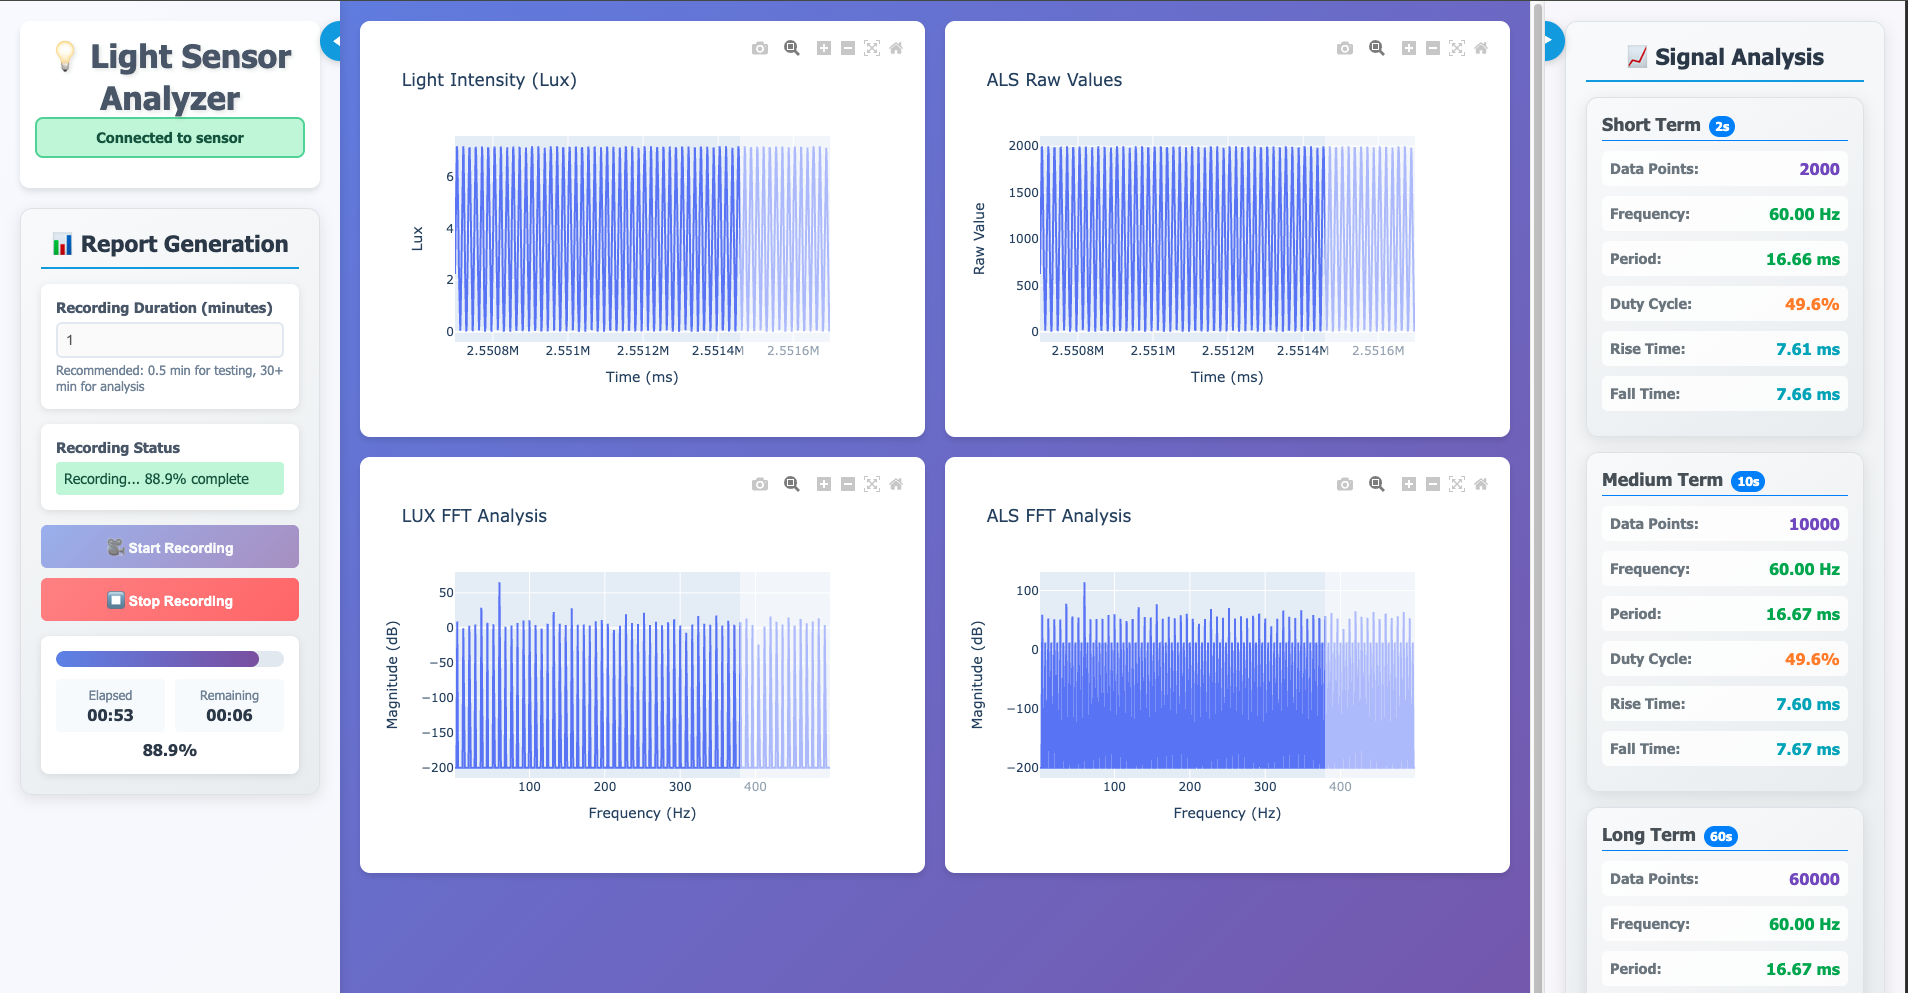
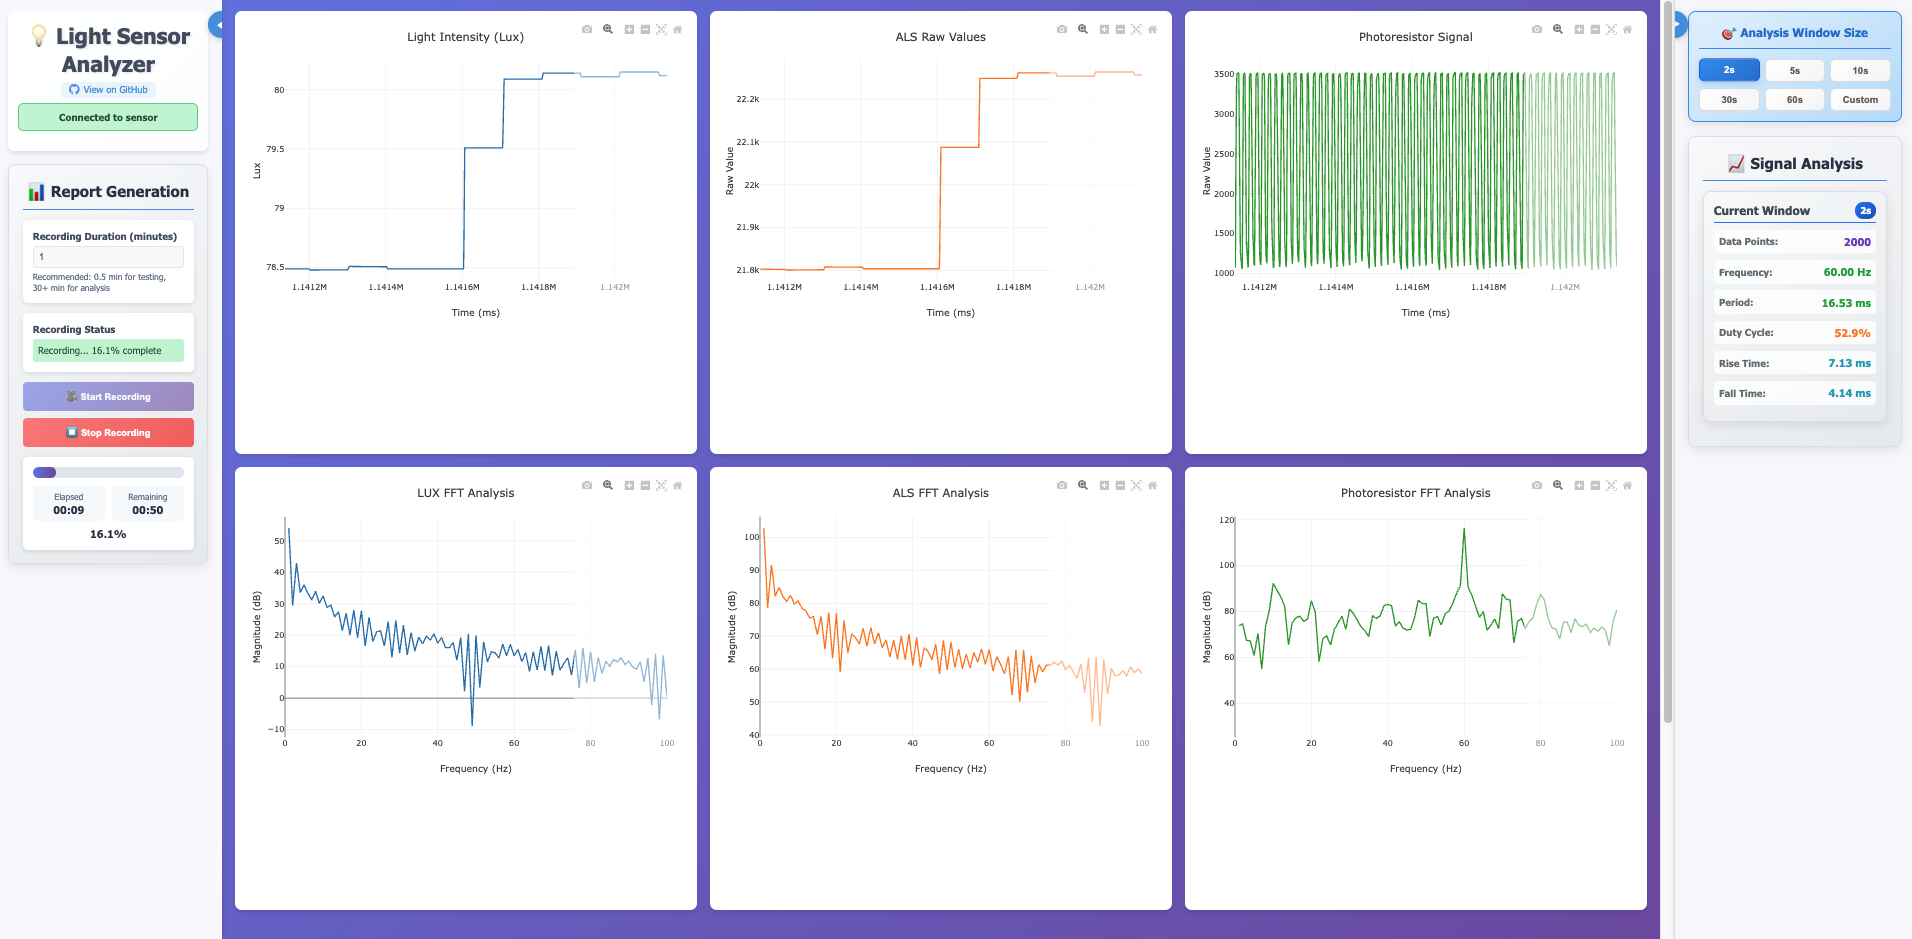
new UI image

diff --git a/README.md b/README.md
@@ -1,6 +1,6 @@
 # 💡 Light Sensor Analyzer
 
-A real-time light sensor analysis system that connects to Arduino-based VEML6030 sensors, providing live monitoring, signal analysis, and automated PDF report generation.
+A real-time light sensor analysis system that connects to Arduino-based sensor setup, providing live monitoring, signal analysis, and automated PDF report generation.
 
 ![Python](https://img.shields.io/badge/python-v3.8+-blue.svg)
 ![License](https://img.shields.io/badge/license-MIT-green.svg)
@@ -11,9 +11,10 @@ A real-time light sensor analysis system that connects to Arduino-based VEML6030
 
 ## ✨ Features
 
-- **Real-Time Monitoring**: Live LUX and ALS value visualization
-- **Signal Analysis**: FFT analysis, dominant frequency detection, duty cycle calculation
-- **Automated PDF Reports**: Professional reports with charts and statistical analysis
+- **Real-Time Monitoring**: Live LUX, ALS, and photoresistor value visualization
+- **Signal Analysis**: FFT analysis, dominant frequency detection, duty cycle calculation on photoresistor values
+- **Statistical Analysis**: Normalized histograms of rise/fall times, duty cycles, frequencies, and sensor values
+- **Automated PDF Reports**: Professional reports with charts, histograms, and statistical analysis
 - **Modern Web Interface**: Responsive design with real-time updates
 - **Multiple Time Windows**: Short-term (2s), medium-term (10s), and long-term (60s) analysis
 
@@ -22,17 +23,45 @@ A real-time light sensor analysis system that connects to Arduino-based VEML6030
 ### Arduino Setup
 - Arduino Uno/Nano or compatible
 - VEML6030 Ambient Light Sensor
+- Photoresistor (Light-Dependent Resistor)
+- 10kΩ resistor for photoresistor pull-down
 - USB cable for serial communication
 
-### VEML6030 Wiring
+### Sensor Wiring
+
+#### VEML6030 (Digital Light Sensor)
 ```
 Arduino    VEML6030
 ------     --------
 VCC   →    VDD (3.3V)
 GND   →    GND
-A4    →    SDA
-A5    →    SCL
+A4    →    SDA (I2C Data)
+A5    →    SCL (I2C Clock)
 ```
+
+#### Photoresistor (Analog Light Sensor)
+```
+Arduino    Photoresistor Circuit
+------     --------------------
+A0    →    Photoresistor + 10kΩ pull-down to GND
+5V    →    Photoresistor (other terminal)
+GND   →    10kΩ resistor (other terminal)
+```
+
+**Photoresistor Circuit Configuration:**
+- The photoresistor forms a voltage divider with a 10kΩ pull-down resistor
+- Higher light intensity → Lower photoresistor resistance → Higher voltage at A0
+- Lower light intensity → Higher photoresistor resistance → Lower voltage at A0
+- This provides analog light measurement complementing the digital VEML6030 sensor
+
+## 📊 Data Output
+
+The system provides three sensor readings:
+- **LUX Values**: Calculated illuminance from VEML6030 (digital sensor)
+- **ALS Values**: Raw ambient light sensor data from VEML6030
+- **Photoresistor Values**: Analog readings from photoresistor circuit (0-1023)
+
+**Analysis Focus**: The advanced signal analysis (frequency, duty cycle, period, rise/fall times) is performed on photoresistor values, while LUX and ALS provide reference measurements.
 
 ## 🚀 Installation
 
@@ -55,10 +84,11 @@ pip install -r requirements.txt
 ```
 
 ### 3. Arduino Setup
-1. Connect VEML6030 sensor using wiring diagram above
-2. Upload Arduino sketch from `Arduino/` directory
-3. Verify serial output at 115200 baud shows CSV data
-4. Note the COM port/device path
+1. Connect VEML6030 sensor using I2C wiring diagram above
+2. Connect photoresistor with 10kΩ pull-down resistor to analog pin A0
+3. Upload Arduino sketch from `Arduino/` directory
+4. Verify serial output at 115200 baud shows CSV data: `timestamp,als_raw,white_raw,lux,photoresistor`
+5. Note the COM port/device path
 
 ### 4. Start Application
 ```bash
@@ -70,10 +100,11 @@ Web interface available at: `http://localhost:7001`
 
 ## 📱 Usage
 
-1. **Connect**: Ensure Arduino with VEML6030 is connected via USB
+1. **Connect**: Ensure Arduino with VEML6030 and photoresistor is connected via USB
 2. **Launch**: Run the application and open web interface
-3. **Record**: Set duration and click "🎥 Start Recording"
-4. **Analyze**: View real-time charts and automatic PDF report generation
+3. **Monitor**: View real-time data from both digital (VEML6030) and analog (photoresistor) sensors
+4. **Record**: Set duration and click "🎥 Start Recording" for analysis
+5. **Analyze**: View real-time charts and automatic PDF report generation with histograms
 
 ## 🛠 Troubleshooting
 
@@ -83,7 +114,14 @@ Web interface available at: `http://localhost:7001`
 
 **No data appearing**
 - Check Arduino serial output (115200 baud)
-- Verify VEML6030 wiring and power
+- Verify VEML6030 I2C wiring and power (3.3V)
+- Check photoresistor circuit with 10kΩ pull-down resistor
+- Ensure expected CSV format: `timestamp,als_raw,white_raw,lux,photoresistor`
+
+**Inconsistent photoresistor readings**
+- Verify 10kΩ pull-down resistor is properly connected to GND
+- Check photoresistor connection to 5V and A0
+- Ensure stable lighting conditions for testing
 
 **Web interface issues**
 - Try `http://127.0.0.1:7001`
